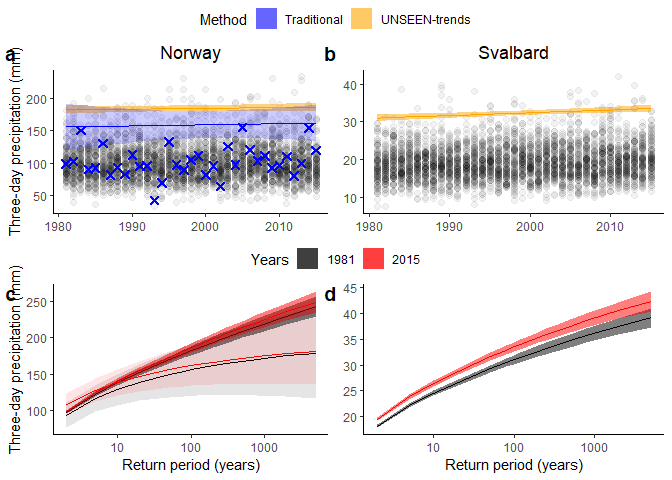
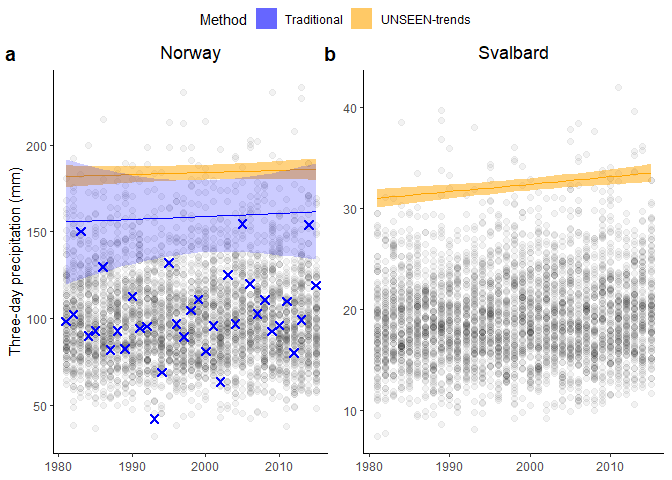
cln

diff --git a/Notebooks/Trend_analysis.md b/Notebooks/Trend_analysis.md
@@ -8,8 +8,9 @@ extreme value theory. We will quantify the trend in the 100-year
 precipitation extremes over time (1981-2015) for the West Coast of
 Norway and for Svalbard.
 
-\#\#\#Import data and packages The data for the West coast and Svalbard
-are loaded.
+### Import data and packages
+
+The data for the West coast and Svalbard are loaded.
 
 ``` r
 # dir='//home/timok/timok/SALIENSEAS/SEAS5/ensex'
@@ -33,7 +34,11 @@ obs=Extremes_obs[as.character(1981:2015)]
 year_vector=as.numeric(levels(df_WC$Year))[df_WC$Year] ###The year is a factor, extract the values  
 ```
 
-And then we compare the 1981 and 2016 return value plots for SEAS5
+## We then compare the 1981 and 2015 return value plots
+
+A GEV distribution including parameters that linearly relate to the time
+period 1981-2015 is fitted to the UNSEEN ensemble. The resulting return
+value plots for the covariates 1981 and 2015 are shown here.
 
 ``` r
 extremes_wc= df_WC$V1 * mean(obs)/mean(df_WC$V1) ## we create a mean bias corrected series  
@@ -111,10 +116,18 @@ ggarrange(p_wc, p_sv,
 }
 
 CD=Plot_non_stationary(GEV_type = 'GEV')
+CD
 ```
 
-We plot the West coast region for the SEAS5 trend and the observed
-trend. We then perform a mean bias correction to SEAS5.
+![](Trend_analysis_files/figure-gfm/unnamed-chunk-3-1.png)<!-- -->
+
+## Testing the fits
+
+We test whether the non-stationary fit is significantly different to the
+stationary fit. Additionally, we print the percentage change in 100yr
+precipitation values between 1981 and 2015. We first do this for the
+observed over Norway and then for the UNSEEN ensemble over Norway and
+Svalbard.
 
 ``` r
 ####Testing for Non-stationarity in the observed
@@ -205,7 +218,21 @@ lr.test(SEAS5_GEV_non_stat_SV,SEAS5_GEV_stat_SV)
 rvs_SEAS5_SV_trend_mm=ci(SEAS5_GEV_non_stat_SV,alpha = 0.05,type='return.level',return.period = 100,method ="normal",qcov=qcovs[2,],qcov.base=qcovs[1,])  #Calculate the return values and confidence intervals for each 
 rvs_SEAS5_SV_base=ci(SEAS5_GEV_non_stat_SV,alpha = 0.05,type='return.level',return.period = 100,method ="normal",qcov=qcovs[1,])  #Calculate the return values and confidence intervals for each 
 rvs_SEAS5_SV_trend_percent=100*rvs_SEAS5_SV_trend_mm/rvs_SEAS5_SV_base[2]
+print(paste('UNSEEN trend and uncertainty over Svalbard:', as.character(rvs_SEAS5_SV_trend_percent[1,2]),
+            as.character(rvs_SEAS5_SV_trend_percent[1,1]),as.character(rvs_SEAS5_SV_trend_percent[1,3])))
 ```
+
+    ## [1] "UNSEEN trend and uncertainty over Svalbard: 7.99531929477084 3.66703506685388 12.3236035226878"
+
+## Illustrating the change in 100-yr values in the observed and in the UNSEEN ensemble
+
+Here, we visualize how the observed, with its small sample, needs to
+extrapolate the trend in the 100-year values, and thus will result in
+very large uncertianty estimates. The UNSEEN ensemble boosts up the
+sample size and therefore can better constrain the parameters and better
+estimate the trend.
+
+We first do the calculation for Norway
 
 ``` r
 ###Plotting the uncertainty estimation
@@ -265,20 +292,15 @@ AB=
           common.legend = T,
           ncol = 2, nrow = 1)
 
-# ABCD=
-  ggarrange(AB, CD,
-            legend='top',
-            common.legend = T,
-            ncol = 1, nrow = 2) #%>% 
+AB
 ```
 
 ![](Trend_analysis_files/figure-gfm/unnamed-chunk-6-1.png)<!-- -->
 
-``` r
-     # ggsave(filename = "../graphs/Trends2.png",width =180,height = 180, units='mm',dpi=300)
-```
-
 ## Calculate the 2015 return period of the 1981 100-year value
+
+What does the 100-year value in 1981 look like in 2015? How often can we
+expect it to occur?
 
 ``` r
 ##The 100 year value in 1981
@@ -297,3 +319,21 @@ which.min(abs(GEV_2015[,2] - RV_100yr_1981)) #The 41-year value!
 
     ## 41-year return level 
     ##                   12
+
+## Plot for publication
+
+Finally, we aggregate the two plots for submission
+
+``` r
+# ABCD=
+  ggarrange(AB, CD,
+            legend='top',
+            common.legend = T,
+            ncol = 1, nrow = 2) #%>% 
+```
+
+![](Trend_analysis_files/figure-gfm/unnamed-chunk-8-1.png)<!-- -->
+
+``` r
+     # ggsave(filename = "../graphs/Trends2.png",width =180,height = 180, units='mm',dpi=300)
+```
